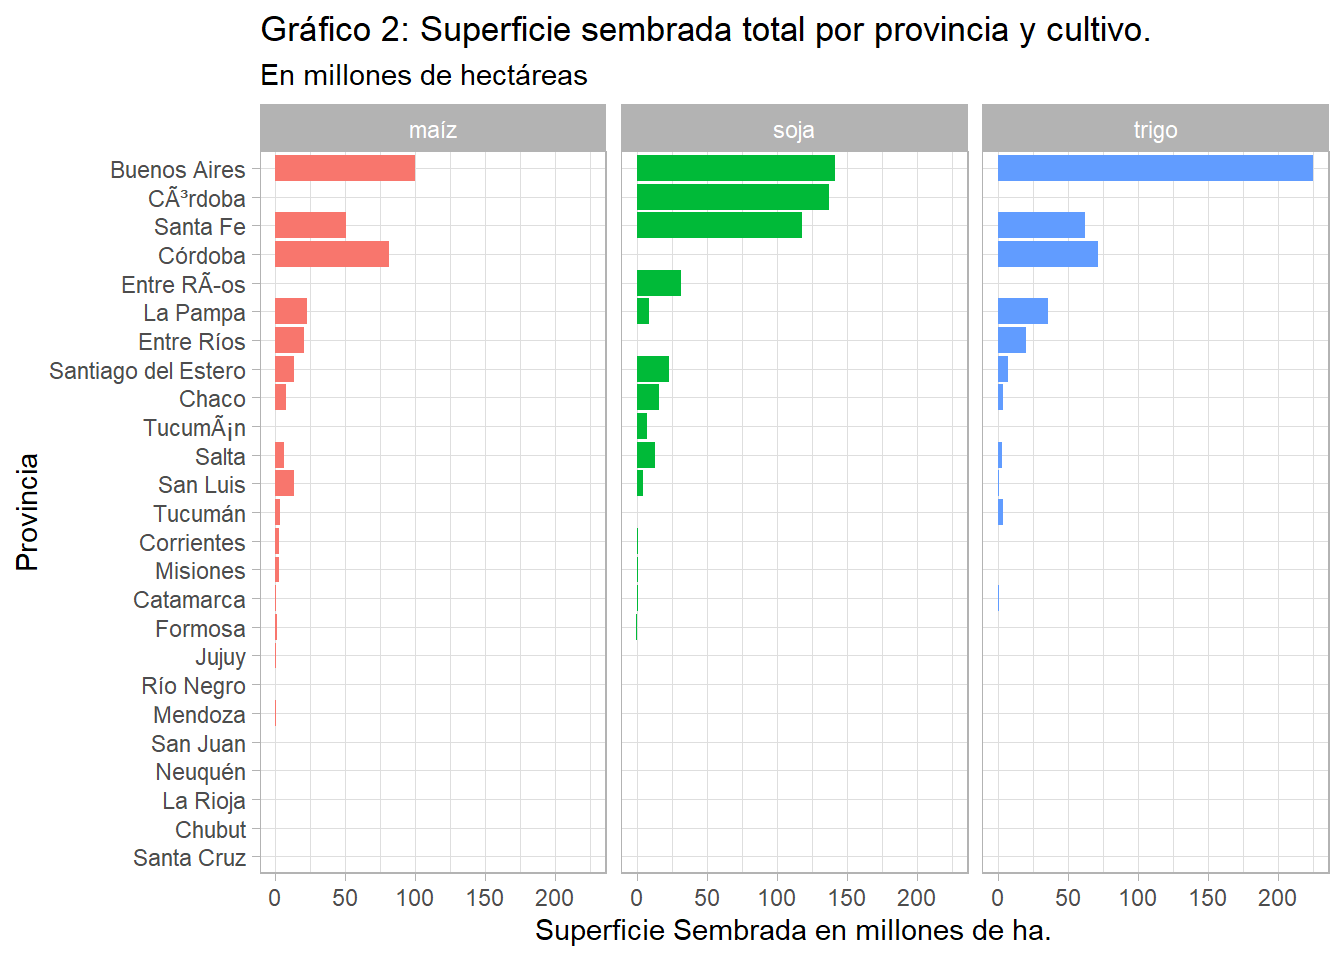
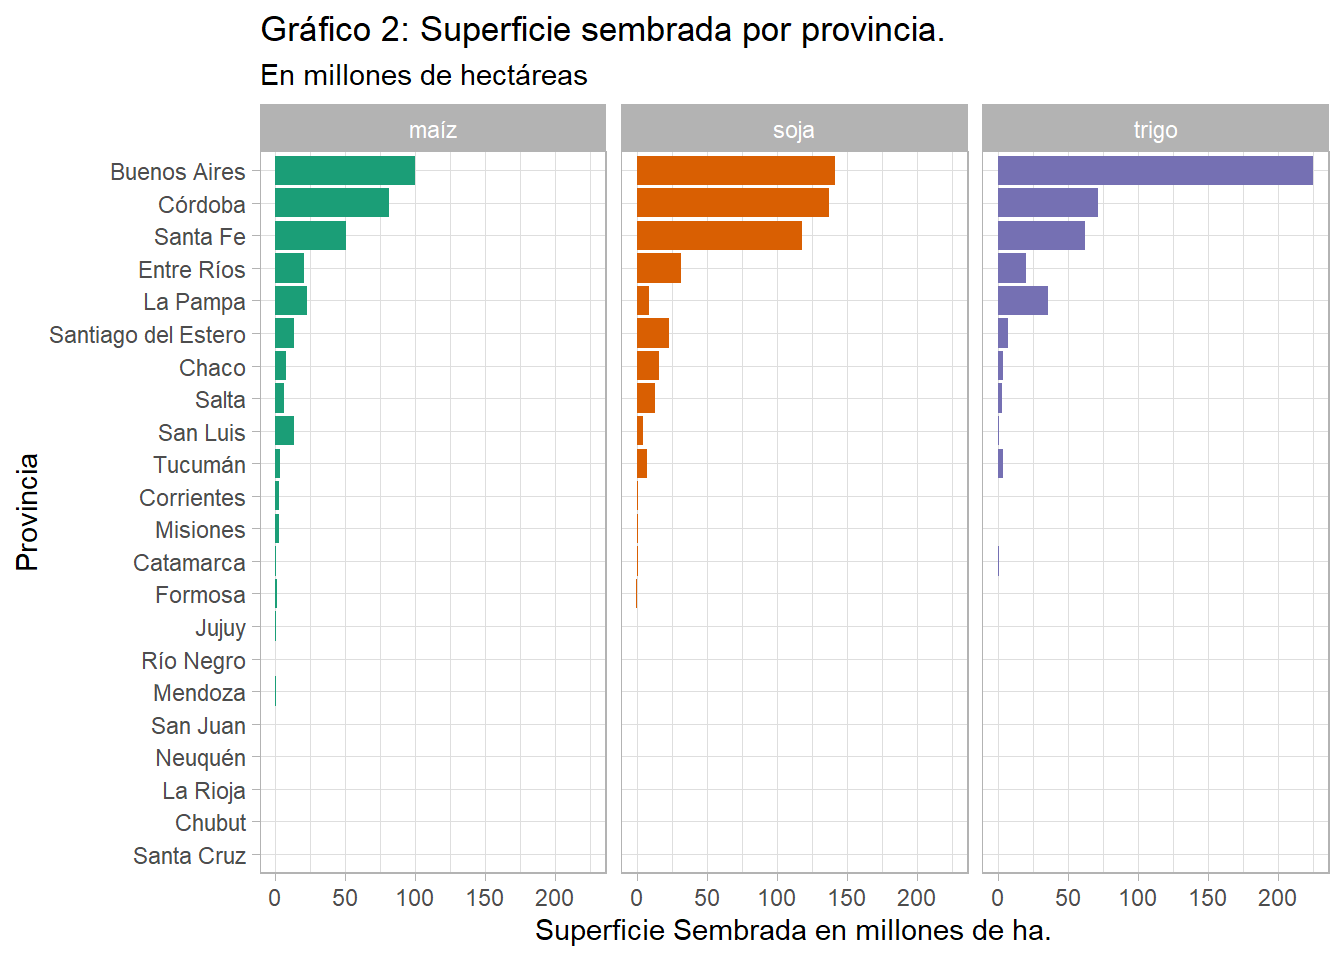
Mejoras menores.

diff --git a/index.html b/index.html
@@ -186,8 +186,17 @@ ul.task-list li input[type="checkbox"] {
 </div>
 </div>
 <hr>
+<div class="callout callout-style-simple callout-note">
+<div class="callout-body d-flex">
+<div class="callout-icon-container">
+<i class="callout-icon"></i>
+</div>
+<div class="callout-body-container">
 <p><strong>1970:</strong> Comienzo de la siembra directa en Argentina (fuente: Aapresid - Asociación Argentina de Productores en Siembra Directa).</p>
 <p><strong>2008:</strong> Inicio del conflicto entre el gobierno nacional y los productores agropecuarios.</p>
+</div>
+</div>
+</div>
 <p>En el Gráfico 1 se aprecia el crecimiento exponencial a partir de 1970, cuando se comenzó a utilizar la siembra directa — una técnica que consiste en sembrar directamente sobre el rastrojo del cultivo anterior, sin labrar previamente el suelo.</p>
 <p>En 2008, dicho crecimiento se detiene. El conflicto del campo fue una profunda disputa entre el gobierno nacional y el sector agropecuario, originada por la Resolución 125/2008, que establecía un sistema de retenciones móviles a las exportaciones de granos, especialmente soja. Esta medida redujo los incentivos para producir y provocó una disminución en la superficie sembrada.</p>
 <p>En el caso del trigo, la serie se mantiene relativamente estable. Para el maíz podemos notar que en 2008, se comienza a elegir este cultivo con menos retenciones en lugar de la soja.</p>
@@ -203,7 +212,7 @@ ul.task-list li input[type="checkbox"] {
 </div>
 </div>
 </div>
-<p>The <code>echo: false</code> option disables the printing of code (only output is displayed).</p>
+<p>Las provincias de mayor producción de los cultivos en estudio son Buenos Aires, Córdoba, Santa Fe, Entre Ríos y La Pampa.</p>
 </section>
 </section>
 
